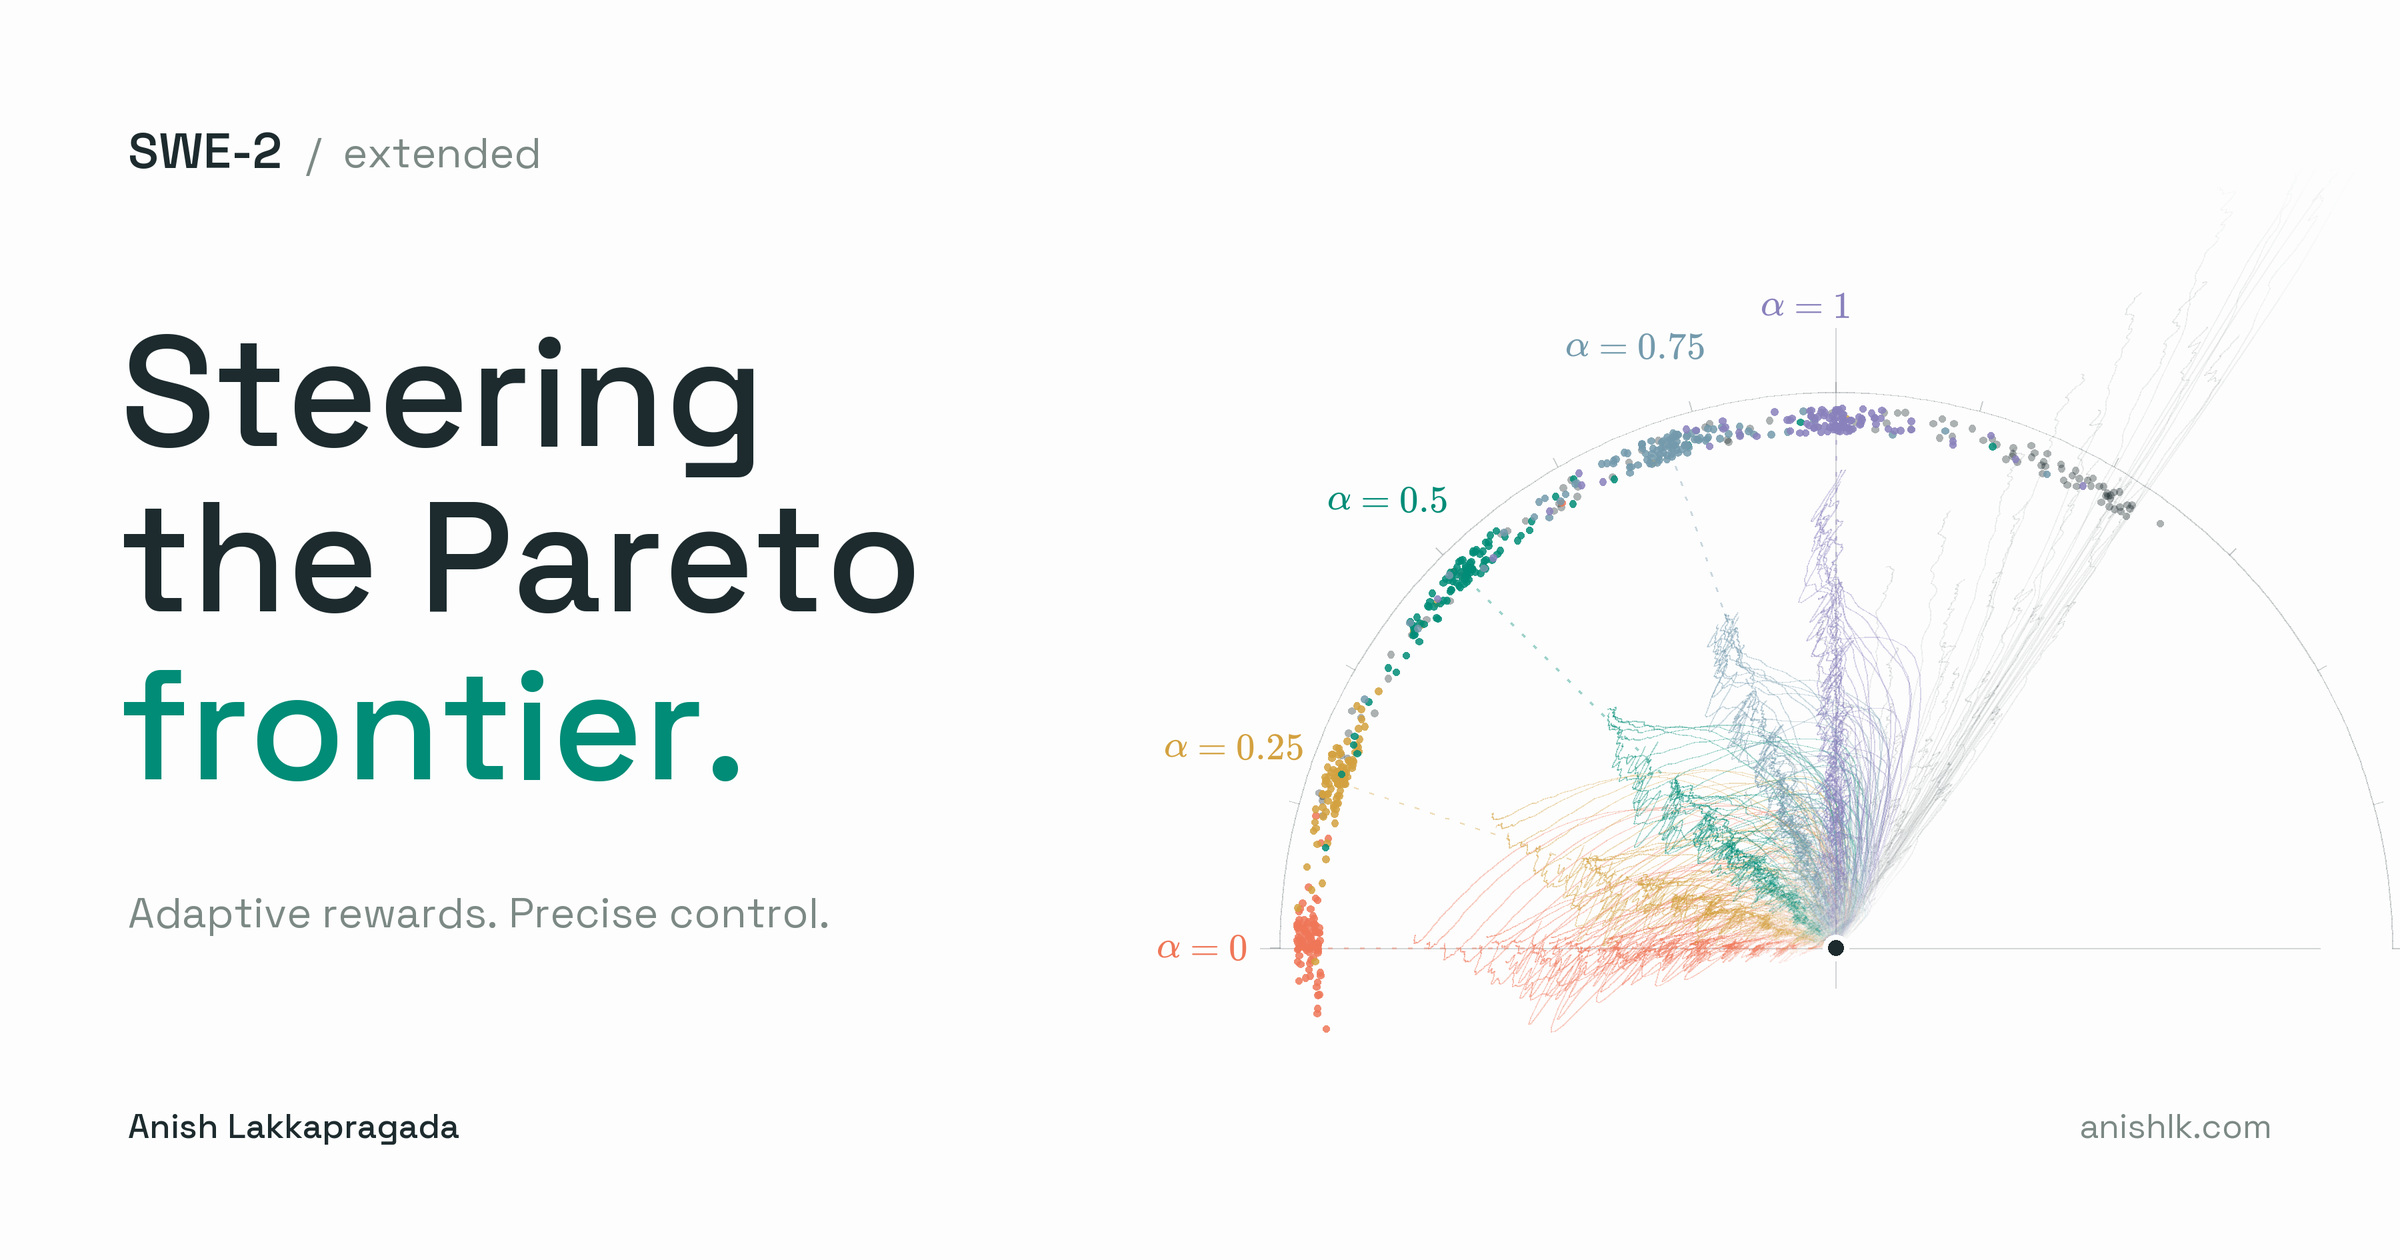
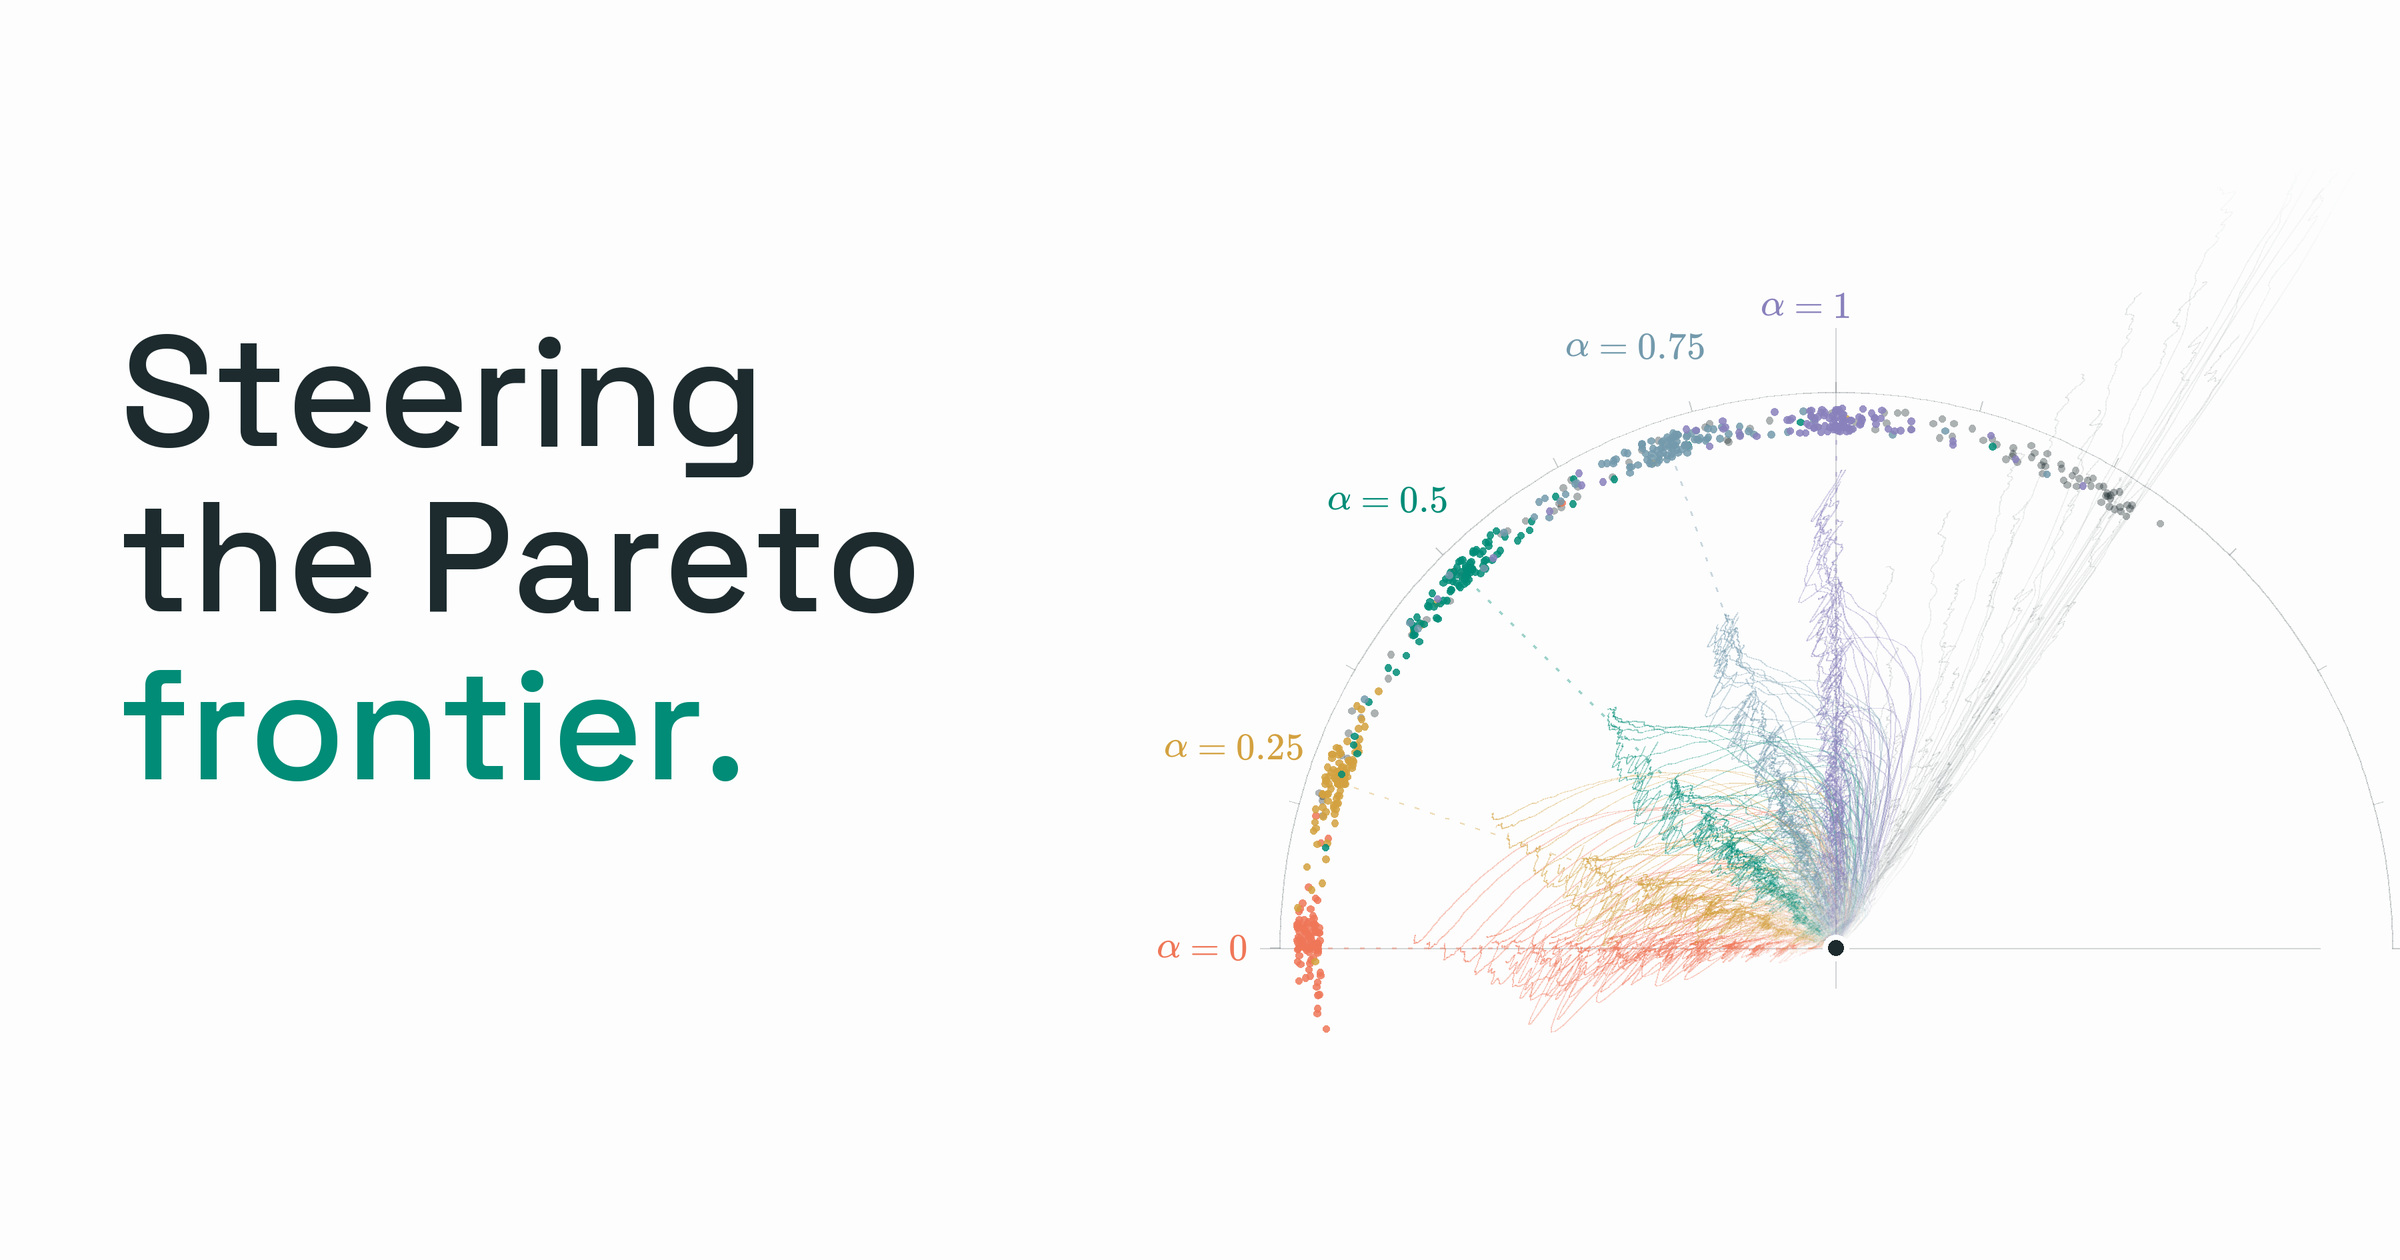
Simplify SWE-2 social card to headline and compass

diff --git a/tools/render_swe2_social_card.py b/tools/render_swe2_social_card.py
@@ -25,7 +25,6 @@ SCALE = 3
 W, H = 1200, 630
 BG = "#fdfdfd"
 INK = "#1d2b2e"
-MUTED = "#7c8985"
 COLORS = [INK, "#ef7758", "#d3a13f", "#008c77", "#739aac", "#8981bc"]
 
 
@@ -133,14 +132,9 @@ def main():
     dot(ox, oy, 3.8, INK)
 
     # Generous type, matching the film's Space Grotesk and evergreen accent.
-    text("SWE-2", 64, 66, 25, weight=600)
-    text("/  extended", 153, 69, 21, MUTED, weight=400)
     text("Steering", 60, 167, 78)
     text("the Pareto", 60, 251, 78)
     text("frontier.", 60, 335, 78, "#008c77")
-    text("Adaptive rewards. Precise control.", 64, 449, 21, MUTED, weight=400)
-    text("Anish Lakkapragada", 64, 557, 17)
-    text("anishlk.com", 1136, 557, 17, MUTED, anchor="rt", weight=400)
 
     output = ASSETS / "social-preview.jpg"
     canvas = canvas.resize((2400, 1260), Image.Resampling.LANCZOS)

diff --git a/swe-2-extended.md b/swe-2-extended.md
@@ -5,7 +5,7 @@ permalink: /swe-2-extended/
 date: 2026-09-25 00:00:00 -0700
 description: Experiments extending the reward function in Cognition's SWE-2 model release.
 image:
-  path: /assets/swe-2-extended/social-preview.jpg
+  path: /assets/swe-2-extended/social-preview.jpg?v=2
   width: 2400
   height: 1260
   alt: "Steering the Pareto frontier: a compass of colored training trajectories, matching the SWE-2 video."
